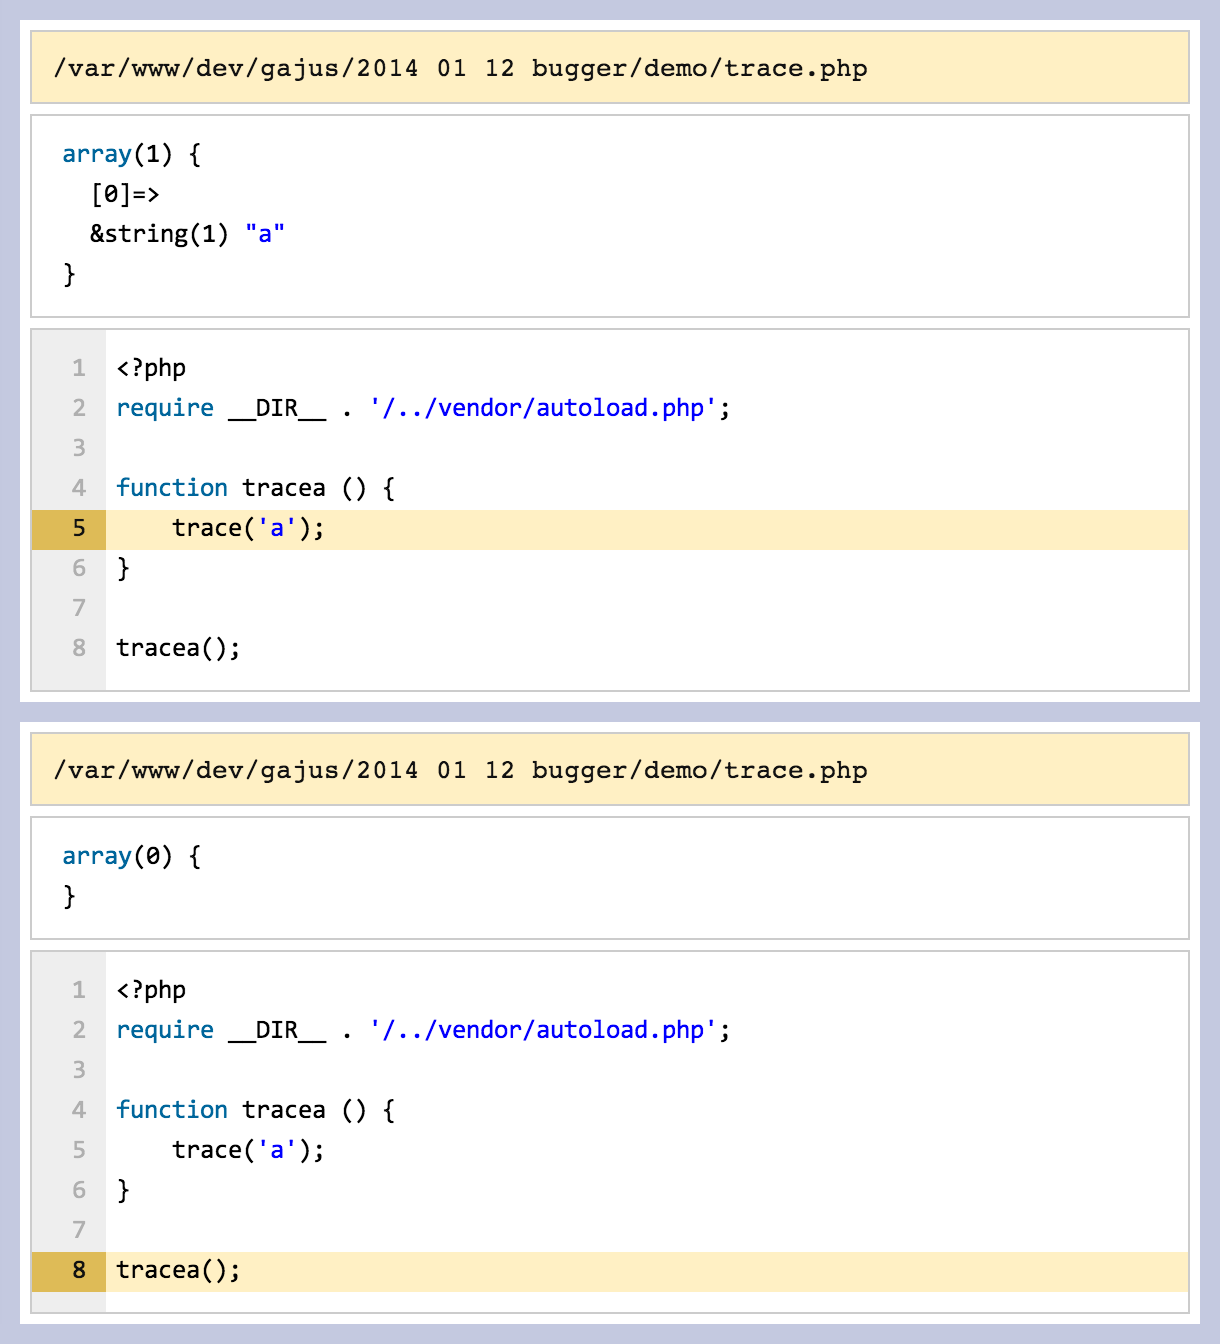
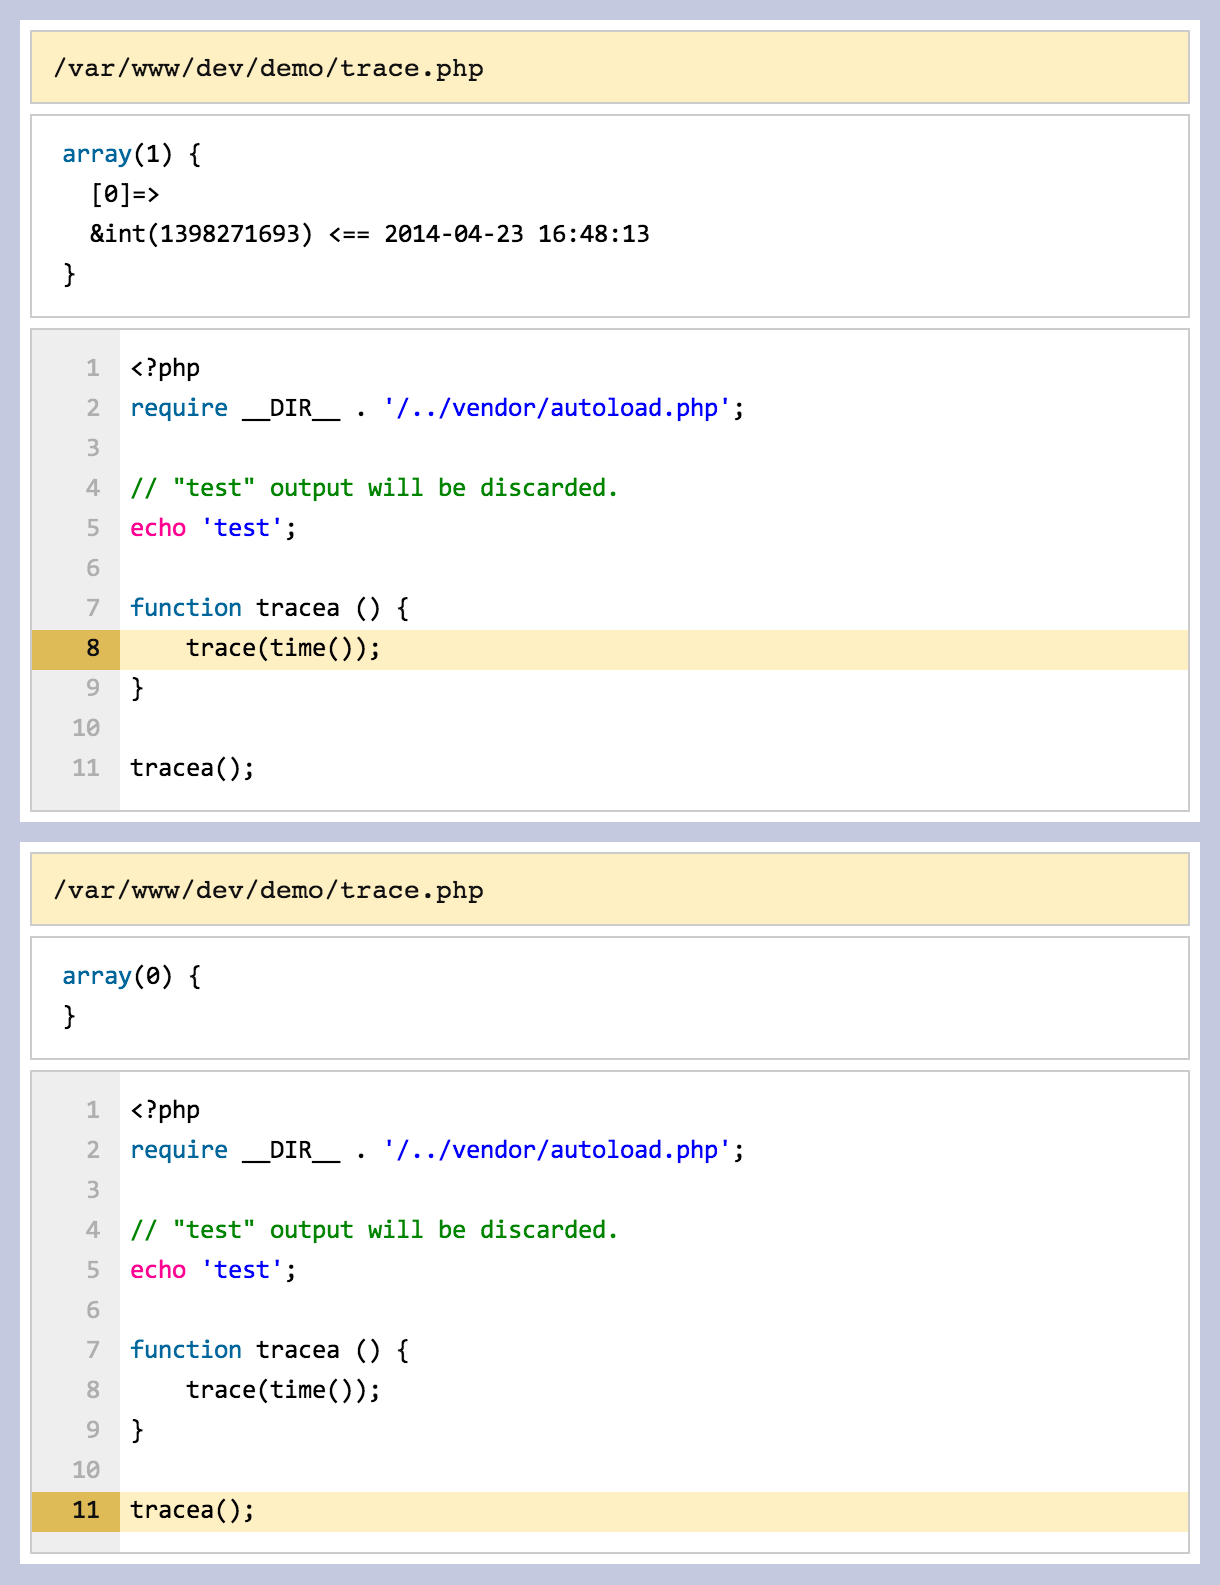
Updated screenshot examples.

diff --git a/demo/stack.php b/demo/stack.php
@@ -1,6 +1,9 @@
 <?php
 require __DIR__ . '/../vendor/autoload.php';
 
+// "test" output will be discarded.
+echo 'test';
+
 function stacka () {
     stack('a');
 }
@@ -9,10 +12,5 @@ function stackb () {
     stack('b');
 }
 
-function stackc () {
-    stack('c');
-}
-
 stacka();
 stackb();
-stackc();

diff --git a/demo/trace.php b/demo/trace.php
@@ -1,13 +1,8 @@
 <?php
 require __DIR__ . '/../vendor/autoload.php';
 
-ob_start();
-
+// "test" output will be discarded.
 echo 'test';
-
-while (ob_get_level()) {
-    ob_end_clean();
-}
 
 function tracea () {
     trace(time());

diff --git a/README.md b/README.md
@@ -21,7 +21,7 @@ Bugger API is exposed to the global namespace via three functions:
  * @param mixed $expression The variable you want to dump.
  * @return null
  */
-trace ( mixed $expression )
+trace ( mixed $expression );
 ````
 
 Trace is used to dump information about the expression including the backtrace information. Trace will attempt to discard existing output buffer. If output buffer cannot be discaded because it has been already sent to the browser, then Bugger will attempt to clear the previous output using client-side script.
@@ -37,7 +37,7 @@ Trace is used to dump information about the expression including the backtrace i
  * @param mixed $expression The variable you want to dump.
  * @return null
  */
-stack ( mixed $expression )
+stack ( mixed $expression );
 ```
 
 Stack is identical to `trace` except that calling `stack` will not terminate the script at the time of the call. If `stack` is called at least once during the script execution, then at the end of the script execution output buffer will be discarded and replaced with the collected `stack` dump, e.g.
